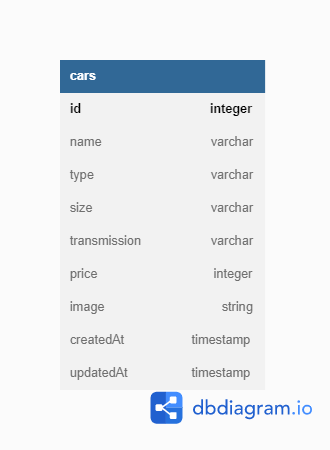
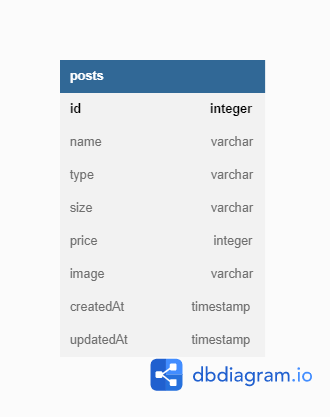
finish

Changed region(s): [[0.1818, 0.1247, 0.8182, 0.8417], [0.2121, 0.2806, 0.4242, 0.8417], [0.4545, 0.8417, 0.9394, 0.9664]]

diff --git a/public/css/style.css b/public/css/style.css
@@ -52,10 +52,16 @@ h2 {
 }
 
 .btn-secondary,
-.btn-outline-secondary:hover,
 .btn-secondary:hover {
 	background-color: #CFD4ED;
-	color: #0D28A6
+	color: #0D28A6;
+	border-width: 2px;
+	border-color: #0D28A6;
+}
+
+.border-blue {
+	border-color: #0D28A6;
+	border-width: 2px;
 }
 
 .btn-success {
@@ -65,8 +71,9 @@ h2 {
 
 .btn-light {
 	background-color: #FFFFFF;
-	border-color: #CFD4ED;
+	border-color: #AEB7E1;
 	border-width: 2px;
+	color: #AEB7E1;
 }
 
 .btn-primary {
@@ -133,12 +140,13 @@ input[id="fileInput"] {
 	cursor: pointer;
 }
 
-#notification-add{
+#notification-add {
 	background-color: #73CA5C;
 	width: 40vmax;
 	font-weight: 500;
 }
-#notification-delete{
+
+#notification-delete {
 	background-color: #151515;
 	width: 40vmax;
 	font-weight: 500;

diff --git a/controller/api.js b/controller/api.js
@@ -14,7 +14,7 @@ const getAllCars = async (req, res) => {
 		cars = cars.filter(car => car.size == size)
 	}
 	if(search) {
-		cars = cars.filter(car => car.name.toLowerCase() == search.toLowerCase() || car.type.toLowerCase() == search.toLowerCase() || car.transmission.toLowerCase() == search.toLowerCase() || car.size.toLowerCase() == search.toLowerCase() || car.price <= search)
+		cars = cars.filter(car => car.name.toLowerCase() == search.toLowerCase() || car.type.toLowerCase() == search.toLowerCase() || car.size.toLowerCase() == search.toLowerCase() || car.price <= search)
 	}
 	if(cars) {
 		res.status(200).json({

diff --git a/controller/web.js b/controller/web.js
@@ -25,7 +25,7 @@ const index = async (req, res) => {
 		title = `List ${capitalize(size)} Cars`
 	}
 	if(search) {
-		cars = cars.filter(car => car.name.toLowerCase() == search.toLowerCase() || car.type.toLowerCase() == search.toLowerCase() || car.transmission.toLowerCase() == search.toLowerCase() || car.size.toLowerCase() == search.toLowerCase() || car.price <= search)
+		cars = cars.filter(car => car.name.toLowerCase() == search.toLowerCase() || car.type.toLowerCase() == search.toLowerCase() || car.size.toLowerCase() == search.toLowerCase() || car.price <= search)
 		title = `List Search Cars`
 		cars
 	}

diff --git a/models/car.js b/models/car.js
@@ -18,7 +18,6 @@ module.exports = (sequelize, DataTypes) => {
     price: DataTypes.INTEGER,
     image: DataTypes.STRING,
 	 size: DataTypes.STRING,
-	 transmission: DataTypes.STRING,
     createdAt: DataTypes.DATE,
     updatedAt: DataTypes.DATE
   }, {

diff --git a/seeders/20230401081713-carSeeder.js b/seeders/20230401081713-carSeeder.js
@@ -13,7 +13,6 @@ module.exports = {
 				"type": car.type,
 				"price": car.price,
 				"size": car.size,
-				"transmission": car.transmission.toLowerCase(),
 				"image": car.image,
 				"createdAt": new Date(),
 				"updatedAt": new Date()

diff --git a/migrations/20230401081020-create-cars.js b/migrations/20230401081020-create-cars.js
@@ -21,9 +21,6 @@ module.exports = {
       size: {
         type: Sequelize.STRING
       },
-      transmission: {
-        type: Sequelize.STRING
-      },
       image: {
         type: Sequelize.STRING
       },

diff --git a/README.md b/README.md
@@ -2,6 +2,10 @@
 
 <br><br>
 
+## Description Project
+The following project is related to restful api using expressjs. Overall used to perform management on rental cars. This project can load pages and also be used as api to manage rental car data. The available APIs are used to get cars, show car, update car, destroy car
+<br><br>
+
 ## Installation
 
   #### 1. Clone Repository
